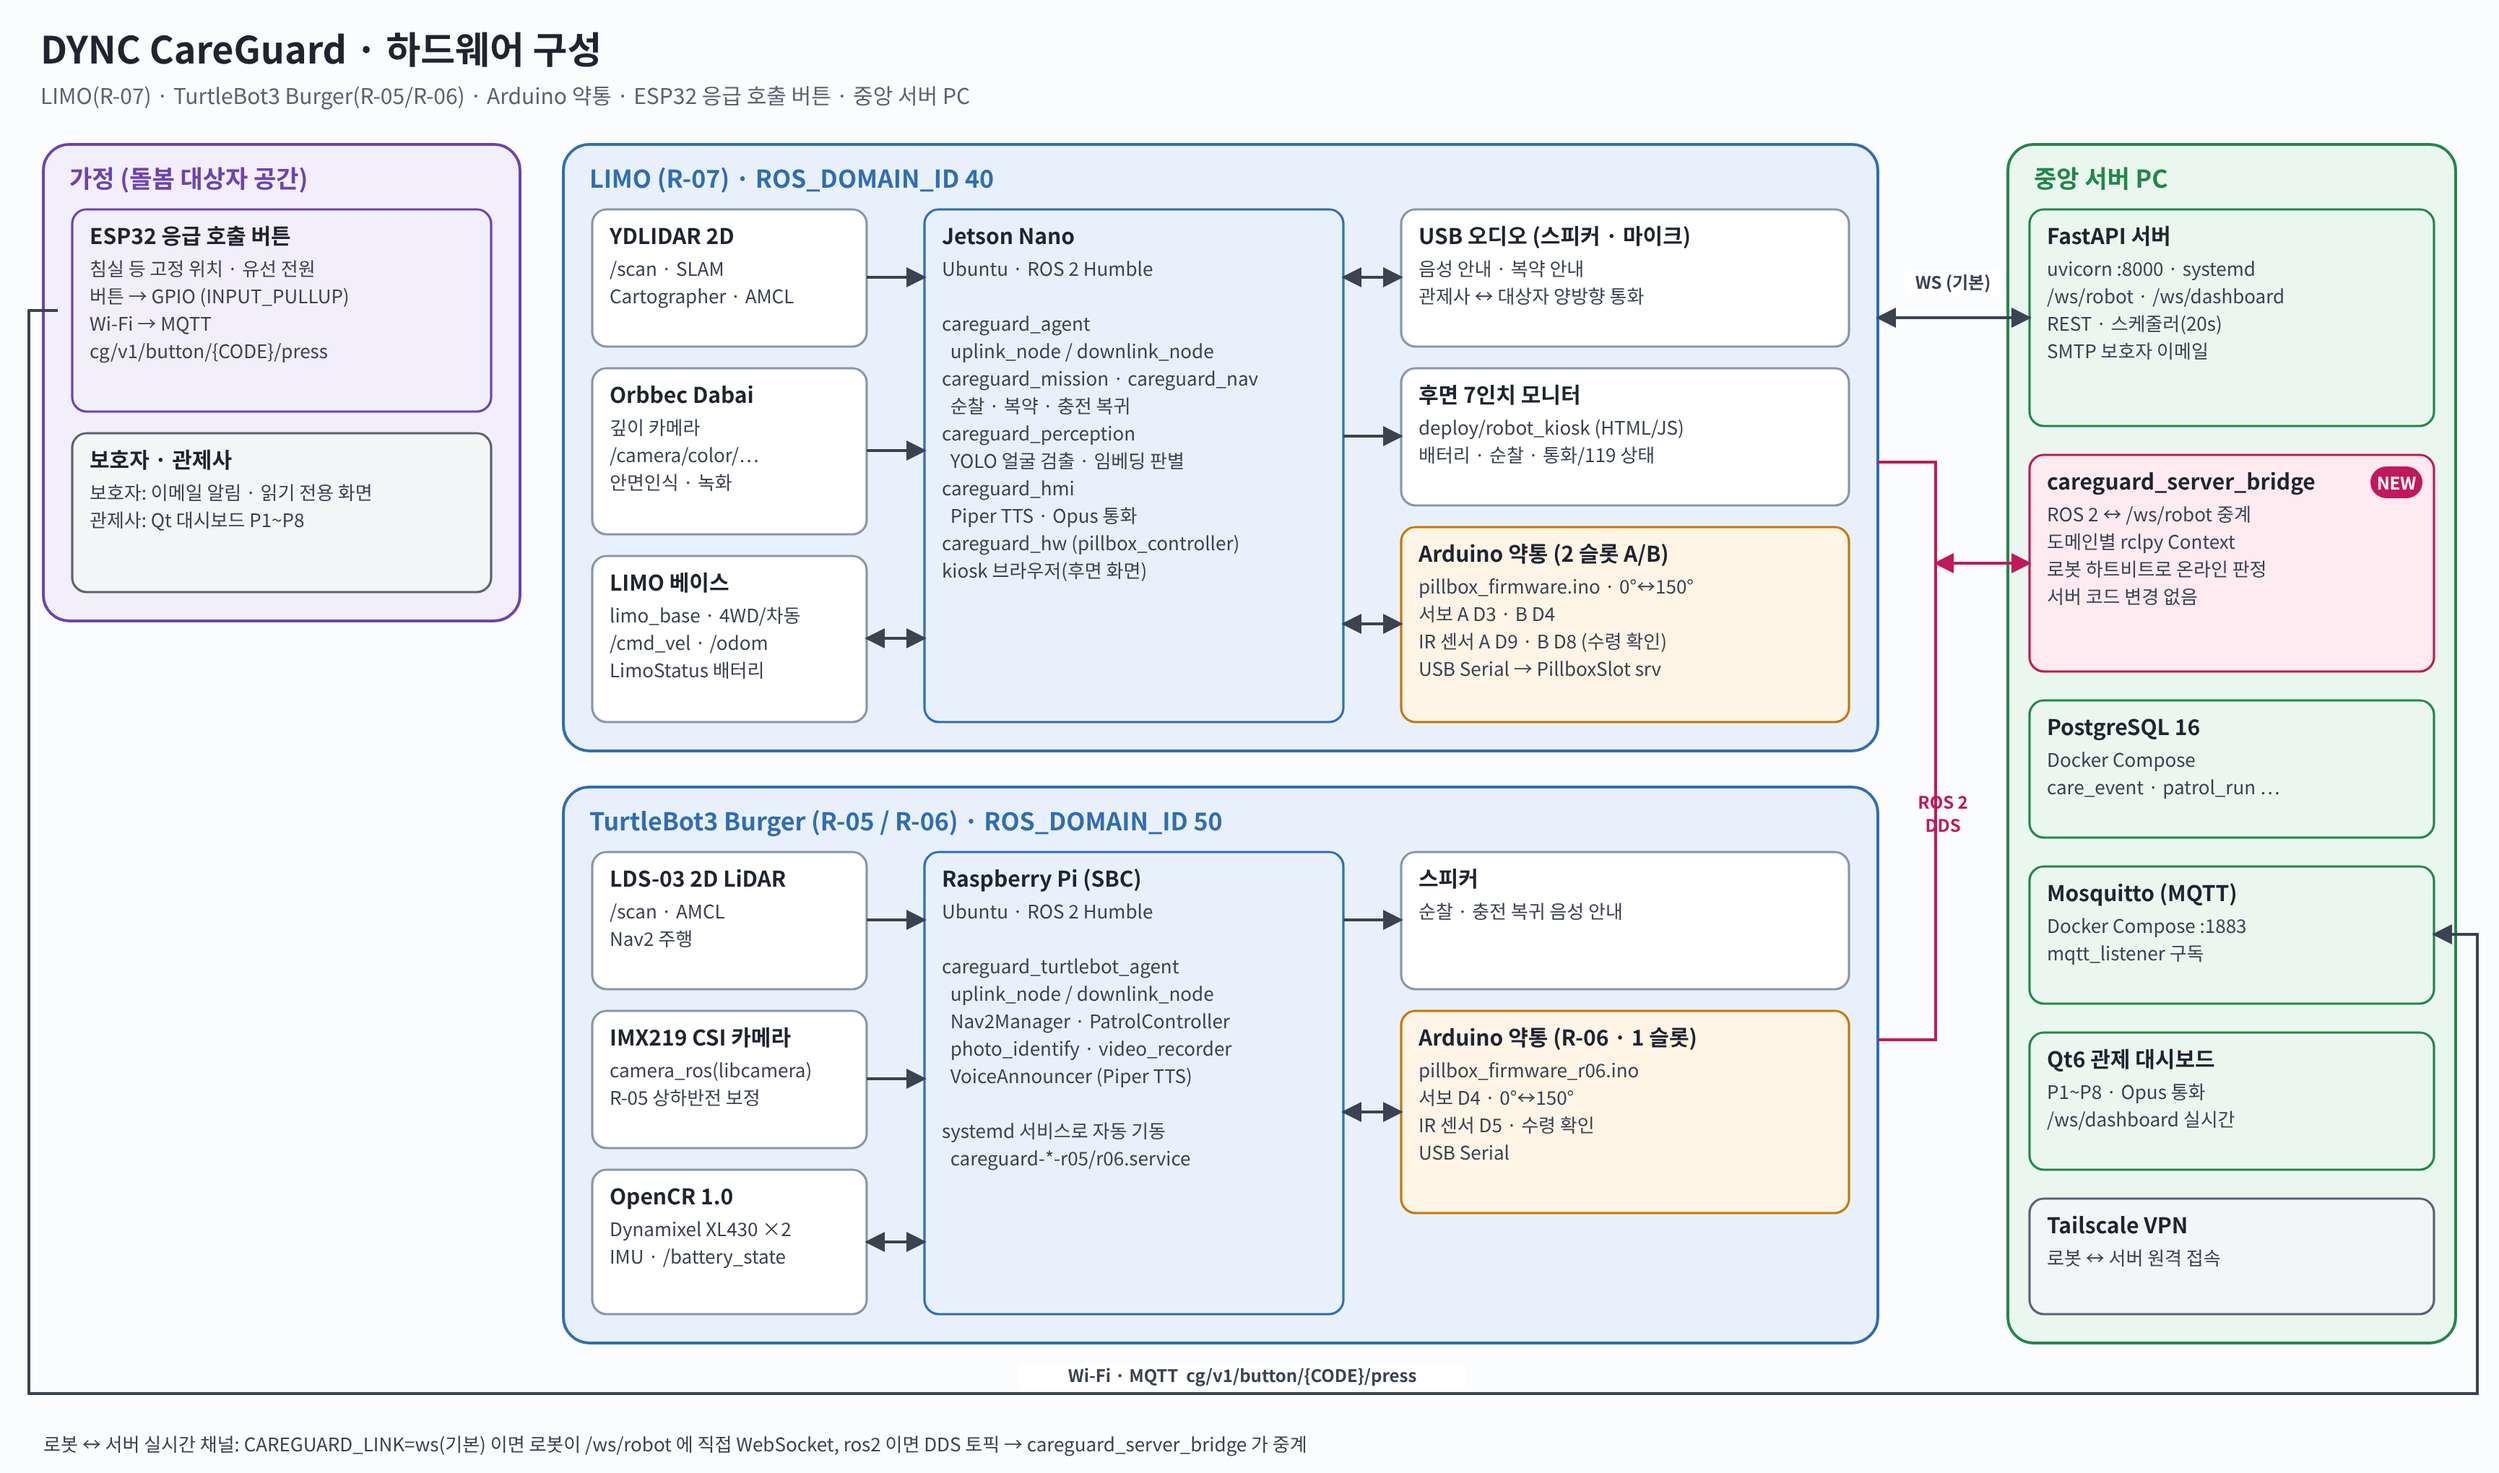
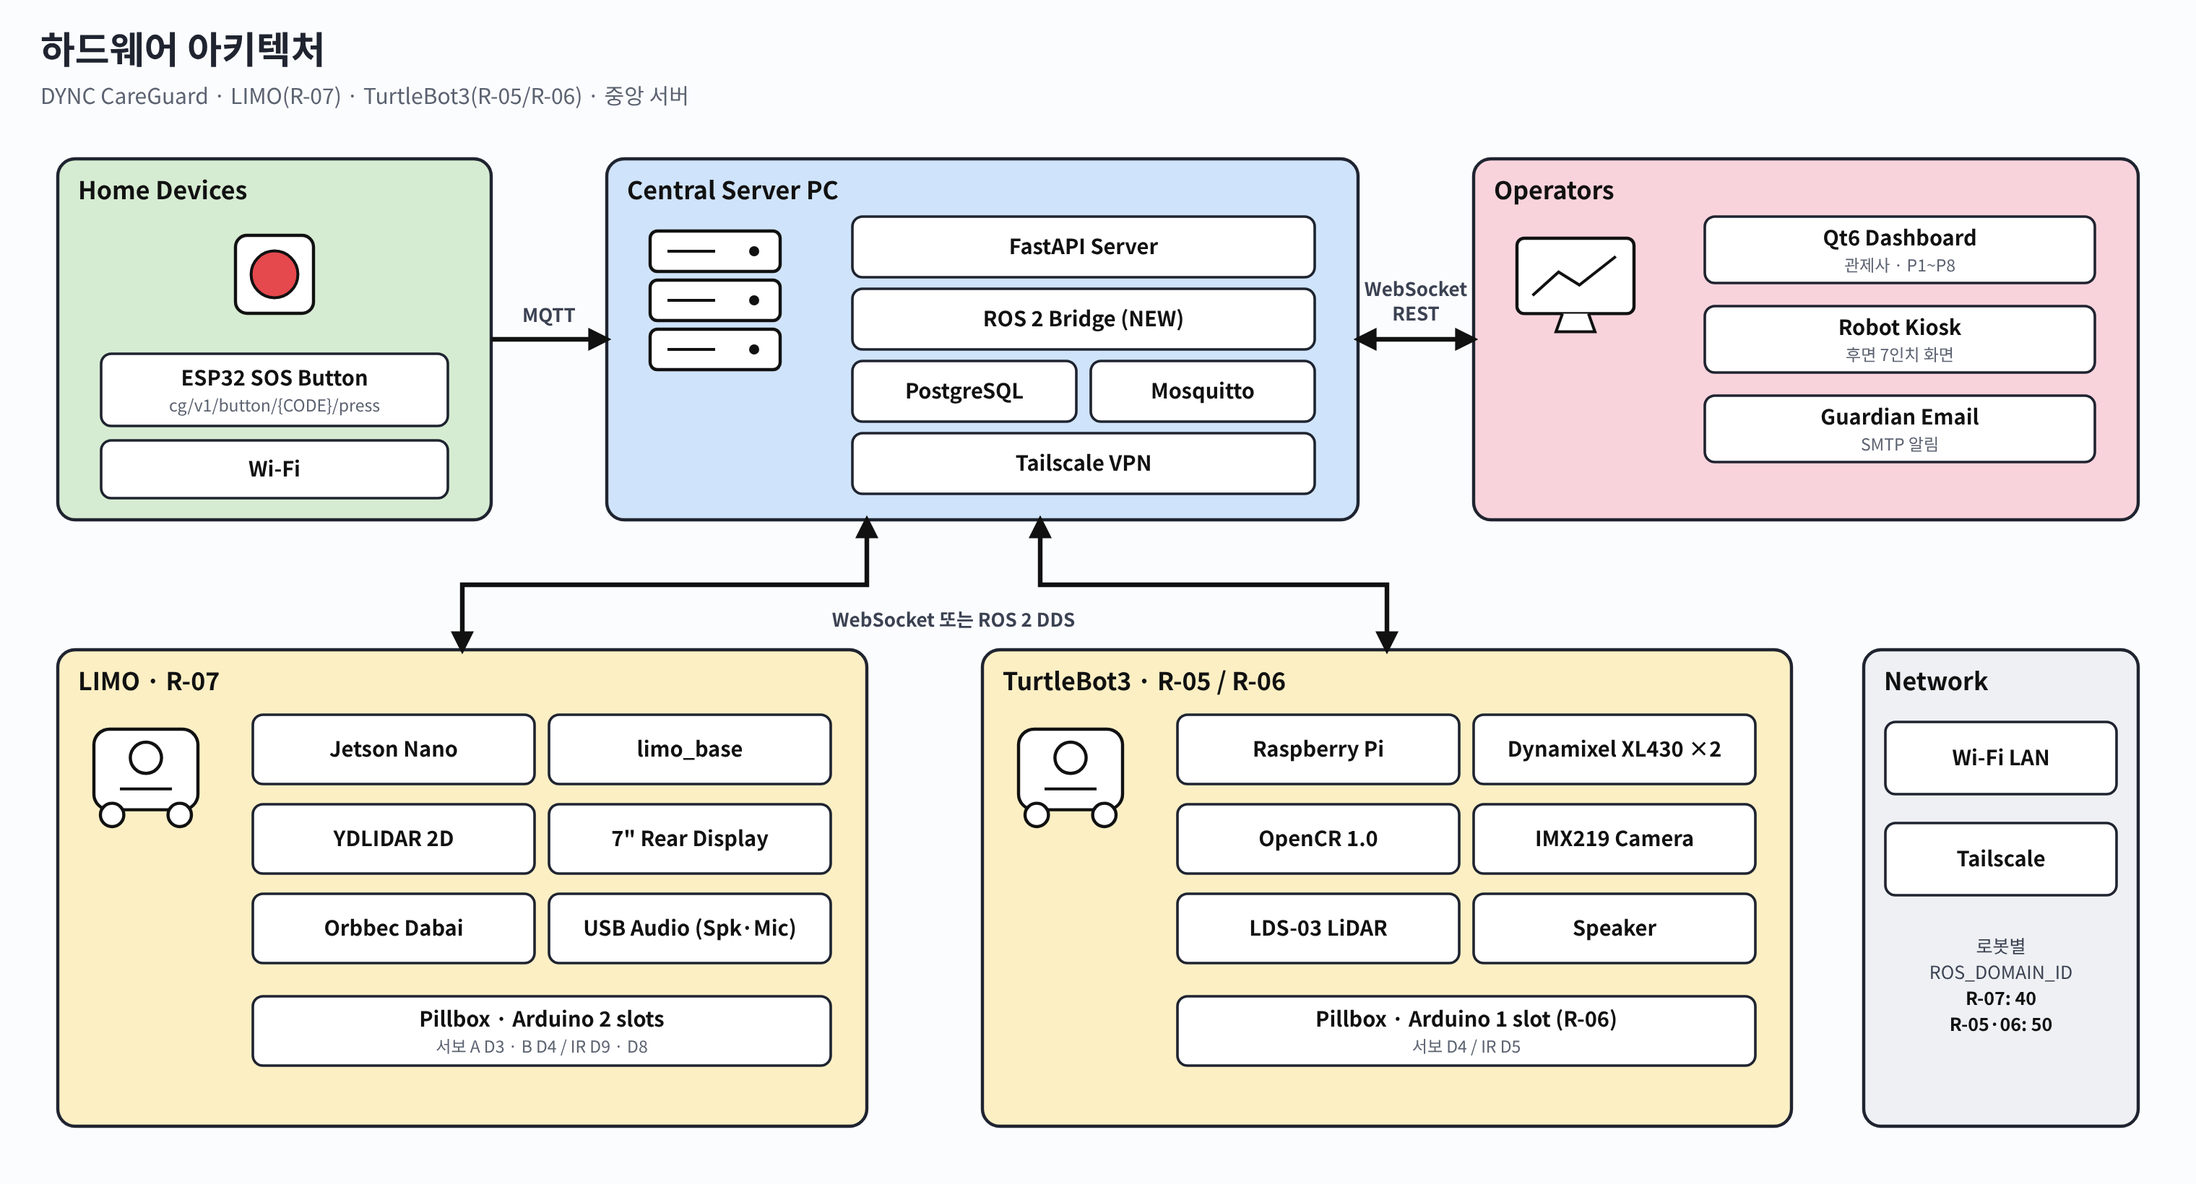
docs: 시스템 아키텍처를 하드웨어·소프트웨어로 분리

diff --git a/README.md b/README.md
@@ -152,9 +152,26 @@
 
 ## 5. 시스템 아키텍처
 
+### 하드웨어 아키텍처
+
 <p align="center">
-  <img src="docs/images/architecture.png" alt="CareGuard 시스템 아키텍처" width="85%" />
+  <img src="docs/images/hardware_architecture.png" alt="CareGuard 하드웨어 아키텍처" width="100%" />
 </p>
+
+### 소프트웨어 아키텍처
+
+<p align="center">
+  <img src="docs/images/software_architecture.png" alt="CareGuard 소프트웨어 아키텍처" width="100%" />
+</p>
+
+<details>
+<summary><b>기존 시스템 구성도</b></summary>
+
+<p align="center">
+  <img src="docs/images/architecture.png" alt="CareGuard 시스템 아키텍처 (기존)" width="85%" />
+</p>
+
+</details>
 
 - 로봇은 서버와의 **유일한 통신구인 agent**(`careguard_agent` / `careguard_turtlebot_agent`의 uplink·downlink 노드)로만 외부와 통신합니다. 다른 ROS 2 노드는 서버를 직접 알지 못합니다.
 - agent ↔ 서버 실시간 채널은 **WebSocket(기본)** 또는 **ROS 2 DDS(`CAREGUARD_LINK=ros2`)** 중 하나로 운용합니다. ROS 2 모드에서는 중앙 서버 PC의 `careguard_server_bridge`가 FastAPI의 기존 `/ws/robot`으로 그대로 중계합니다([8장](#8-중앙-서버와-ros-2-통신)).
@@ -165,11 +182,9 @@
 
 ## 6. 하드웨어 구성
 
-### 6.1 하드웨어 아키텍처
+### 6.1 로봇별 하드웨어 사양
 
-<p align="center">
-  <img src="docs/images/hardware_architecture.png" alt="CareGuard 하드웨어 구성도" width="100%" />
-</p>
+> 장비 간 연결은 [5장 하드웨어 아키텍처](#하드웨어-아키텍처)를 참고하세요.
 
 | 구분 | LIMO (R-07) | TurtleBot3 Burger (R-05 / R-06) |
 | :-- | :-- | :-- |
